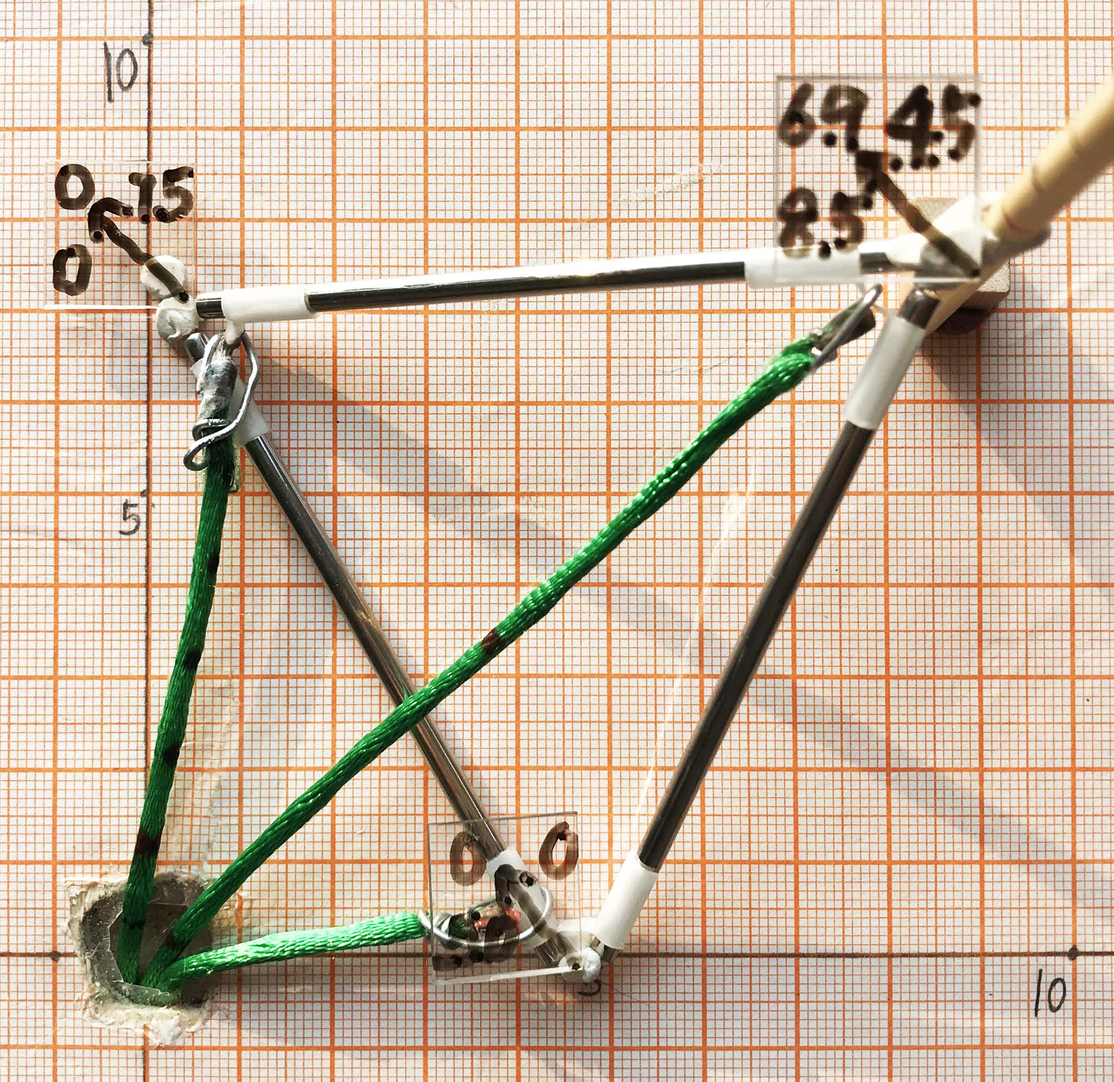
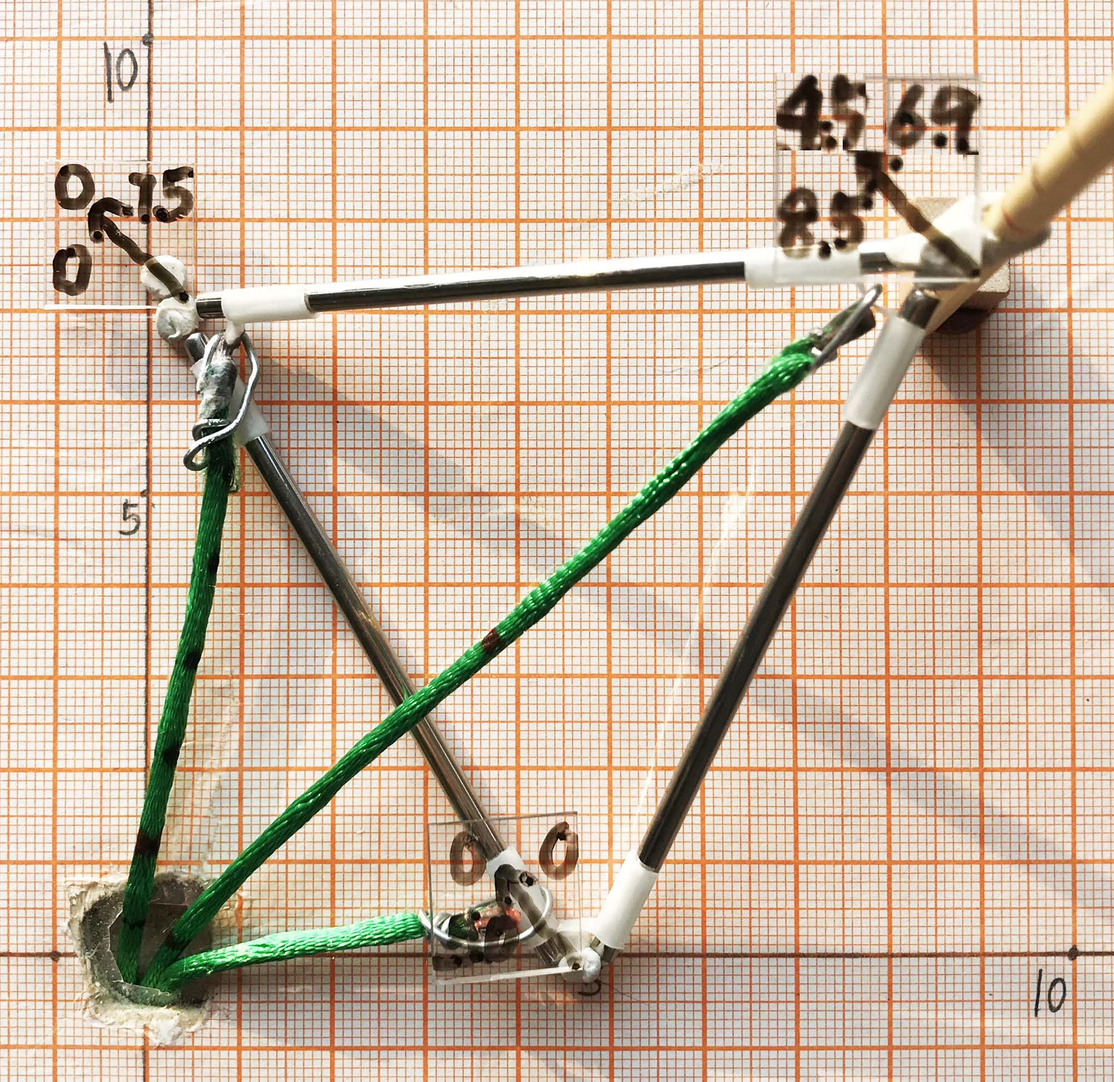
revise

Changed region(s): [[0.682, 0.0618, 0.899, 0.1544]]

diff --git a/chapters/几何形体中点的空间直角坐标数值/感受三角面片的边线的端点的空间直角坐标的数值.md b/chapters/几何形体中点的空间直角坐标数值/感受三角面片的边线的端点的空间直角坐标的数值.md
@@ -37,6 +37,31 @@
 
 ## 2.体验缩放
 
+### 一个边长大约为9厘米，9厘米，9.6厘米的等腰三角形的3个顶点坐标为: 
+```python
+[
+[5.0,0,0],
+[0,7.5,0],
+[8.5,6.9,4.5]
+]
+```
+![](/images/几何形体中点的空间直角坐标数值/感受三角面片的边线的端点的空间直角坐标的数值/2a1.jpg)
+
+### 假设最下方的顶点[5.0,0,0]不动，三角面的三个边各放大2倍，放大后的三角面的3个顶点坐标为： 
+```python
+[
+[5.0,0,0],
+[-5,-15,0],
+[12,13.8,9]
+]
+```
+![](/images/几何形体中点的空间直角坐标数值/感受三角面片的边线的端点的空间直角坐标的数值/2a2.jpg)
+![](/images/几何形体中点的空间直角坐标数值/感受三角面片的边线的端点的空间直角坐标的数值/2a3.jpg)
+
+### 公式如下： 
+
+![](/images/几何形体中点的空间直角坐标数值/感受三角面片的边线的端点的空间直角坐标的数值/2a4.jpg)
+
 ## 3.体验旋转
 
 ## 4.体验镜像
